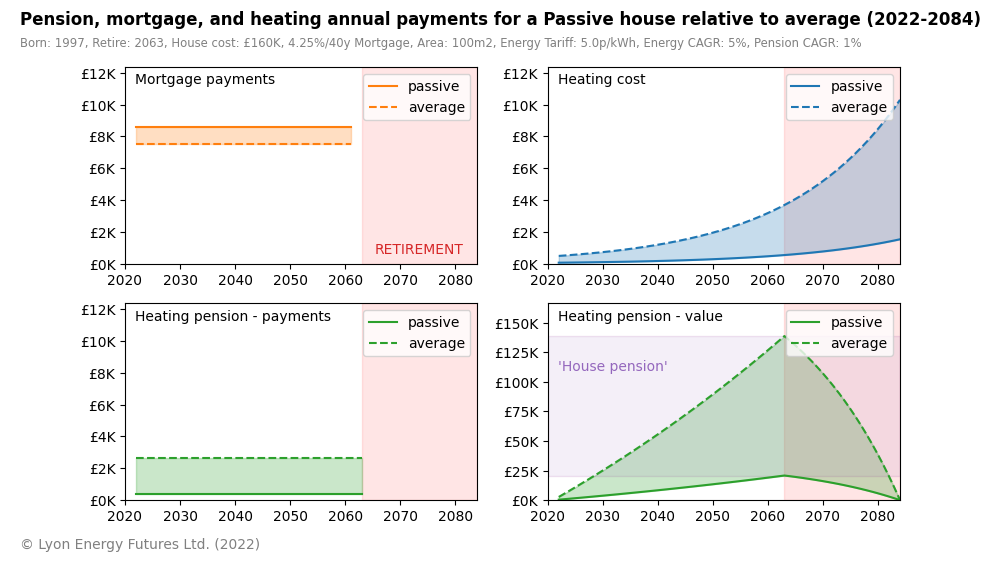
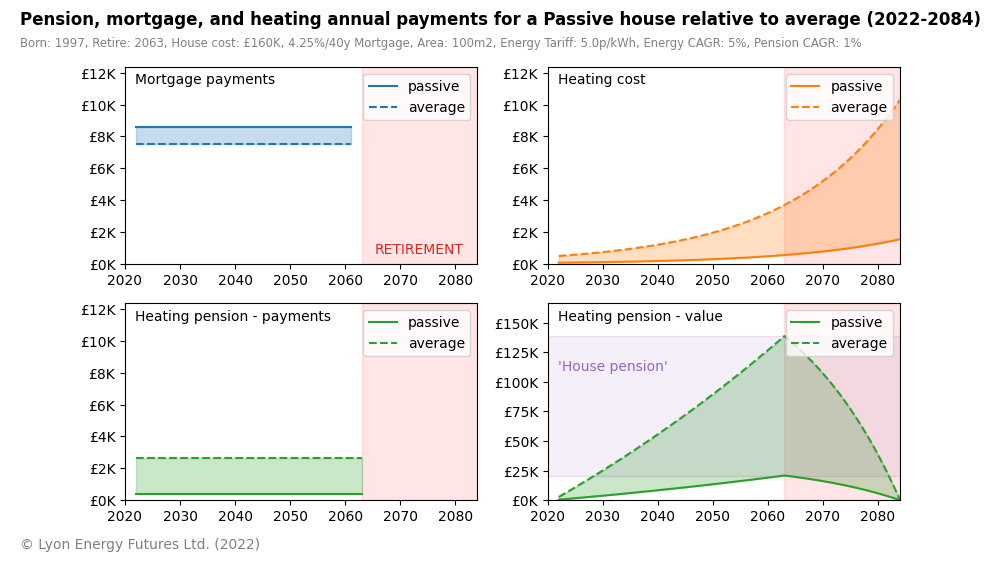
refactor

Changed region(s): [[0.558, 0.1815, 0.899, 0.484], [0.124, 0.2117, 0.372, 0.2722]]

diff --git a/pension_calculator/plot/plot_payment_schedule.py b/pension_calculator/plot/plot_payment_schedule.py
@@ -17,98 +17,113 @@ from pension_calculator.plot.scenario import (
     average_params,
     passive_params,
 )
-from pension_calculator.plot.helpers import currency, waterfall_chart
+from pension_calculator.plot.helpers import (
+    annotate_copyright,
+    annotate_subtitle,
+    annotate_title,
+    compute_lowest_decade,
+    currency,
+    retirement_rectangle,
+    waterfall_chart,
+)
 
-if __name__ == "__main__":
+
+def plot():
 
     average_df = compute_payment_schedule(average_params)
     passive_df = compute_payment_schedule(passive_params)
     delta_df = passive_df - average_df
 
-    # initialise figure
+    # Initialise a four panel figure.
+
     fig = plt.figure()
     width_inches = 10
     height_inches = width_inches * 9 / 16
     fig.set_size_inches(width_inches, height_inches)
     fig.patch.set_facecolor("white")
     fig.suptitle(
-        f"Pension, mortgage, and heating cost of a Passive house relative to average ({HOUSE_PURCHASE_YEAR}-{YOD})",
-        x=0.45,
+        f"Pension, mortgage, and heating annual payments for a Passive house relative to average ({HOUSE_PURCHASE_YEAR}-{YOD})",
+        x=0.5,
         fontsize=12,
         fontweight="bold",
     )
-
-    # make four subplots and get axes
-
-    max_cost = average_df.max(axis=1).max() * 1.2
-
     gs = fig.add_gridspec(2, 2, hspace=0.2, wspace=0.2)
     (ax1, ax2), (ax3, ax4) = gs.subplots()
     axes = [ax1, ax2, ax3, ax4]
 
-    # Top left: plot 'average' house.
+    # Set axis limits.
 
-    ax1.yaxis.set_major_formatter(currency)
+    max_cost = average_df[["mortgage", "heating", "pension"]].max(axis=1).max() * 1.2
+    min_year = compute_lowest_decade(average_df.index.min())
+    max_year = average_df.index.max()
+
+    for ax in [ax1, ax2, ax3]:
+        ax.yaxis.set_major_formatter(currency)
+        ax.set_xlim([min_year, max_year])
+
+    # Top left: Average house.
+
+    title = f"Average - {average_params.house_annual_heating_kwh_m2a} kWh/m2(a)"
+    annotate_title(ax1, title)
+    annotate_title(ax1, "RETIREMENT", x=250, y=10, color="tab:red")
+    ax1.add_patch(retirement_rectangle(YOR, YOD, max_cost))
     ax1.set_ylim([0, max_cost])
-    ax1.annotate(
-        f"Average - {average_params.house_annual_heating_kwh_m2a} kWh/m2(a)",
-        (0, 0),
-        (20, 180),
-        xycoords="axes points",
-        textcoords="offset pixels",
-    )
-    average_df.plot(ax=ax1, legend=None)
+
+    average_df["mortgage"].plot(ax=ax1, legend=None, color="tab:blue")
+    average_df["heating"].plot(ax=ax1, legend=None, color="tab:orange")
+    average_df["pension"].plot(ax=ax1, legend=None, color="tab:green")
+
     ax1.fill_between(
-        average_df.index, average_df["heating"], color="tab:blue", alpha=0.25
+        average_df.index, average_df["heating"], color="tab:orange", alpha=0.25
     )
     ax1.fill_between(
-        average_df.index, average_df["mortgage"], color="tab:orange", alpha=0.25
+        average_df.index, average_df["mortgage"], color="tab:blue", alpha=0.25
     )
     ax1.fill_between(
         average_df.index, average_df["pension"], color="tab:green", alpha=0.25
     )
-    ax1.axvline(x=YOR, ymin=0, ymax=max_cost, color="tab:red", alpha=0.25)
 
-    # Top right: plot 'passive' house.
+    # Top right: Passive house.
 
-    ax2.yaxis.set_major_formatter(currency)
+    title = f"Passive - {passive_params.house_annual_heating_kwh_m2a} kWh/m2(a)"
+    annotate_title(ax2, title)
+    ax2.add_patch(retirement_rectangle(YOR, YOD, max_cost))
     ax2.set_ylim([0, max_cost])
-    ax2.annotate(
-        f"Passive - {passive_params.house_annual_heating_kwh_m2a} kWh/m2(a)",
-        (0, 0),
-        (20, 180),
-        xycoords="axes points",
-        textcoords="offset pixels",
-    )
-    passive_df.plot(ax=ax2).legend(loc="upper right")
+
+    passive_df["mortgage"].plot(ax=ax2, legend="mortgage", color="tab:blue")
+    passive_df["heating"].plot(ax=ax2, legend="heating", color="tab:orange")
+    passive_df["pension"].plot(ax=ax2, legend="pension", color="tab:green")
+
     ax2.fill_between(
-        passive_df.index, passive_df["heating"], color="tab:blue", alpha=0.25
+        passive_df.index, passive_df["heating"], color="tab:orange", alpha=0.25
     )
     ax2.fill_between(
-        passive_df.index, passive_df["mortgage"], color="tab:orange", alpha=0.25
+        passive_df.index, passive_df["mortgage"], color="tab:blue", alpha=0.25
     )
     ax2.fill_between(
         passive_df.index, passive_df["pension"], color="tab:green", alpha=0.25
     )
-    ax2.axvline(x=YOR, ymin=0, ymax=max_cost, color="tab:red", alpha=0.25)
+    ax2.legend(loc="upper right")
 
-    # Bottom left: plot difference.
+    # Bottom left: difference.
 
-    ax3.yaxis.set_major_formatter(currency)
-    ax3.annotate(
-        f"Difference",
-        (0, 0),
-        (20, 10),
-        xycoords="axes points",
-        textcoords="offset pixels",
-    )
-    delta_df.plot(ax=ax3, legend=None)
-    ax3.fill_between(delta_df.index, delta_df["heating"], color="tab:blue", alpha=0.25)
+    annotate_title(ax3, "Difference", y=10)
+
+    min_cost = delta_df[["mortgage", "heating", "pension"]].min(axis=1).min()
+    max_cost = delta_df[["mortgage", "heating", "pension"]].max(axis=1).max() * 1.5
+    ax3.set_ylim([min_cost, max_cost])
+
+    ax3.add_patch(retirement_rectangle(YOR, YOD, min_cost * 1.5, max_cost))
+
+    delta_df["mortgage"].plot(ax=ax3, legend=None, color="tab:blue")
+    delta_df["heating"].plot(ax=ax3, legend=None, color="tab:orange")
+    delta_df["pension"].plot(ax=ax3, legend=None, color="tab:green")
+
     ax3.fill_between(
-        delta_df.index, delta_df["mortgage"], color="tab:orange", alpha=0.25
+        delta_df.index, delta_df["heating"], color="tab:orange", alpha=0.25
     )
+    ax3.fill_between(delta_df.index, delta_df["mortgage"], color="tab:blue", alpha=0.25)
     ax3.fill_between(delta_df.index, delta_df["pension"], color="tab:green", alpha=0.25)
-    ax3.axvline(x=YOR, ymin=0, ymax=max_cost, color="tab:red", alpha=0.25)
 
     # Bottom right: "waterfall" showing cumulative differences.
 
@@ -135,35 +150,8 @@ if __name__ == "__main__":
 
     # Display selected parameters as a subtitle.
 
-    ax1.annotate(
-        f"Born: {passive_params.person_year_of_birth}, "
-        f"Retire: {YOR}, "
-        f"House cost: £{passive_params.house_purchase_cost/1000:1.0f}K, "
-        f"{passive_params.mortgage_interest_rate*100}%/{passive_params.mortgage_length_years}y Mortgage, "
-        f"Area: {passive_params.house_area_m2}m2, "
-        f"Energy Tariff: {passive_params.energy_tariff*100}p/kWh, "
-        f"Energy CAGR: {passive_params.energy_cagr*100:1.0f}%, "
-        f"Pension CAGR: {passive_params.pension_growth_rate*100:1.0f}%",
-        (0, 0),
-        (33, 525),
-        xycoords="figure points",
-        textcoords="offset pixels",
-        va="top",
-        color="grey",
-        fontsize="small",
-    )
-
-    # Copyright footer.
-
-    ax3.annotate(
-        "Lyon Energy Futures Ltd.",
-        (0, 0),
-        (30, 25),
-        xycoords="figure points",
-        textcoords="offset pixels",
-        va="top",
-        color="grey",
-    )
+    annotate_subtitle(ax1)
+    annotate_copyright(ax3)
 
     outfile = (
         PLOT_DIR
@@ -173,3 +161,7 @@ if __name__ == "__main__":
     print(f"\nSaved file to {outfile}")
 
     plt.show()
+
+
+if __name__ == "__main__":
+    plot()

diff --git a/pension_calculator/plot/plot_payment_schedule_explainer.py b/pension_calculator/plot/plot_payment_schedule_explainer.py
@@ -5,6 +5,8 @@ import matplotlib.pyplot as plt
 from pension_calculator import PLOT_DIR
 from pension_calculator.compute.compute_payment_schedule import compute_payment_schedule
 from pension_calculator.plot.helpers import (
+    annotate_copyright,
+    annotate_subtitle,
     annotate_title,
     compute_lowest_decade,
     currency,
@@ -20,7 +22,7 @@ from pension_calculator.plot.scenario import (
 )
 
 
-def main():
+def plot():
 
     average_df = compute_payment_schedule(average_params)
     passive_df = compute_payment_schedule(passive_params)
@@ -71,15 +73,15 @@ def main():
     annotate_title(ax1, "RETIREMENT", x=250, y=10, color="tab:red")
     ax1.add_patch(retirement_rectangle(YOR, YOD, max_cost))
 
-    passive_df["mortgage"].plot(ax=ax1, color="tab:orange", label="passive")
+    passive_df["mortgage"].plot(ax=ax1, color="tab:blue", label="passive")
     average_df["mortgage"].plot(
-        ax=ax1, color="tab:orange", linestyle="dashed", label="average"
+        ax=ax1, color="tab:blue", linestyle="dashed", label="average"
     )
     ax1.fill_between(
         average_df.index,
         average_df["mortgage"],
         passive_df["mortgage"],
-        color="tab:orange",
+        color="tab:blue",
         alpha=0.25,
     )
 
@@ -88,15 +90,15 @@ def main():
     annotate_title(ax2, "Heating cost")
     ax2.add_patch(retirement_rectangle(YOR, YOD, max_cost))
 
-    passive_df["heating"].plot(ax=ax2, color="tab:blue", label="passive")
+    passive_df["heating"].plot(ax=ax2, color="tab:orange", label="passive")
     average_df["heating"].plot(
-        ax=ax2, color="tab:blue", linestyle="dashed", label="average"
+        ax=ax2, color="tab:orange", linestyle="dashed", label="average"
     )
     ax2.fill_between(
         average_df.index,
         average_df["heating"],
         passive_df["heating"],
-        color="tab:blue",
+        color="tab:orange",
         alpha=0.25,
     )
 
@@ -153,37 +155,8 @@ def main():
     for ax in axes:
         ax.legend(loc="upper right")
 
-    # Display selected parameters as a subtitle.
-
-    ax1.annotate(
-        f"Born: {passive_params.person_year_of_birth}, "
-        f"Retire: {YOR}, "
-        f"House cost: £{passive_params.house_purchase_cost/1000:1.0f}K, "
-        f"{passive_params.mortgage_interest_rate*100}%/{passive_params.mortgage_length_years}y Mortgage, "
-        f"Area: {passive_params.house_area_m2}m2, "
-        f"Energy Tariff: {passive_params.energy_tariff*100}p/kWh, "
-        f"Energy CAGR: {passive_params.energy_cagr*100:1.0f}%, "
-        f"Pension CAGR: {passive_params.pension_growth_rate*100:1.0f}%",
-        (0, 0),
-        (20, 525),
-        xycoords="figure points",
-        textcoords="offset pixels",
-        va="top",
-        color="grey",
-        fontsize="small",
-    )
-
-    # Copyright footer.
-
-    ax3.annotate(
-        "© Lyon Energy Futures Ltd. (2022)",
-        (0, 0),
-        (20, 25),
-        xycoords="figure points",
-        textcoords="offset pixels",
-        va="top",
-        color="grey",
-    )
+    annotate_subtitle(ax1)
+    annotate_copyright(ax3)
 
     outfile = (
         PLOT_DIR
@@ -196,4 +169,4 @@ def main():
 
 
 if __name__ == "__main__":
-    main()
+    plot()

diff --git a/pension_calculator/plot/helpers.py b/pension_calculator/plot/helpers.py
@@ -6,6 +6,8 @@ import matplotlib.pyplot as plt
 import numpy as np
 import pandas as pd
 
+from pension_calculator.plot.scenario import YOR, passive_params
+
 
 def currency(x, pos):
     """Format y axis currency label as £xxK."""
@@ -186,20 +188,21 @@ def waterfall_chart(
 
 
 def retirement_rectangle(
-    yor: int, yod: int, max_cost: float
+    yor: int, yod: int, max_cost: float, min_cost: float = 0
 ) -> matplotlib.patches.Rectangle:
     """Return a rectangle representing the retirement period.
     Args:
         yor: Year of retirement
         yod: Year of death
         max_cost: Maximum cost
+        min_cost: Minimum cost
 
     Returns:
         A Rectangle patch representing the retirement period.
 
     """
     return matplotlib.patches.Rectangle(
-        (yor, 0),
+        (yor, min_cost),
         yod - yor,
         max_cost,
         linewidth=1,
@@ -223,4 +226,36 @@ def annotate_title(ax: matplotlib.axis, title: str, x=10, y=180, color="black") 
         color=color,
         xycoords="axes points",
         textcoords="offset pixels",
+    )
+
+
+def annotate_subtitle(ax):
+    ax.annotate(
+        f"Born: {passive_params.person_year_of_birth}, "
+        f"Retire: {YOR}, "
+        f"House cost: £{passive_params.house_purchase_cost / 1000:1.0f}K, "
+        f"{passive_params.mortgage_interest_rate * 100}%/{passive_params.mortgage_length_years}y Mortgage, "
+        f"Area: {passive_params.house_area_m2}m2, "
+        f"Energy Tariff: {passive_params.energy_tariff * 100}p/kWh, "
+        f"Energy CAGR: {passive_params.energy_cagr * 100:1.0f}%, "
+        f"Pension CAGR: {passive_params.pension_growth_rate * 100:1.0f}%",
+        (0, 0),
+        (20, 525),
+        xycoords="figure points",
+        textcoords="offset pixels",
+        va="top",
+        color="grey",
+        fontsize="small",
+    )
+
+
+def annotate_copyright(ax):
+    ax.annotate(
+        "© Lyon Energy Futures Ltd. (2022)",
+        (0, 0),
+        (20, 25),
+        xycoords="figure points",
+        textcoords="offset pixels",
+        va="top",
+        color="grey",
     )
